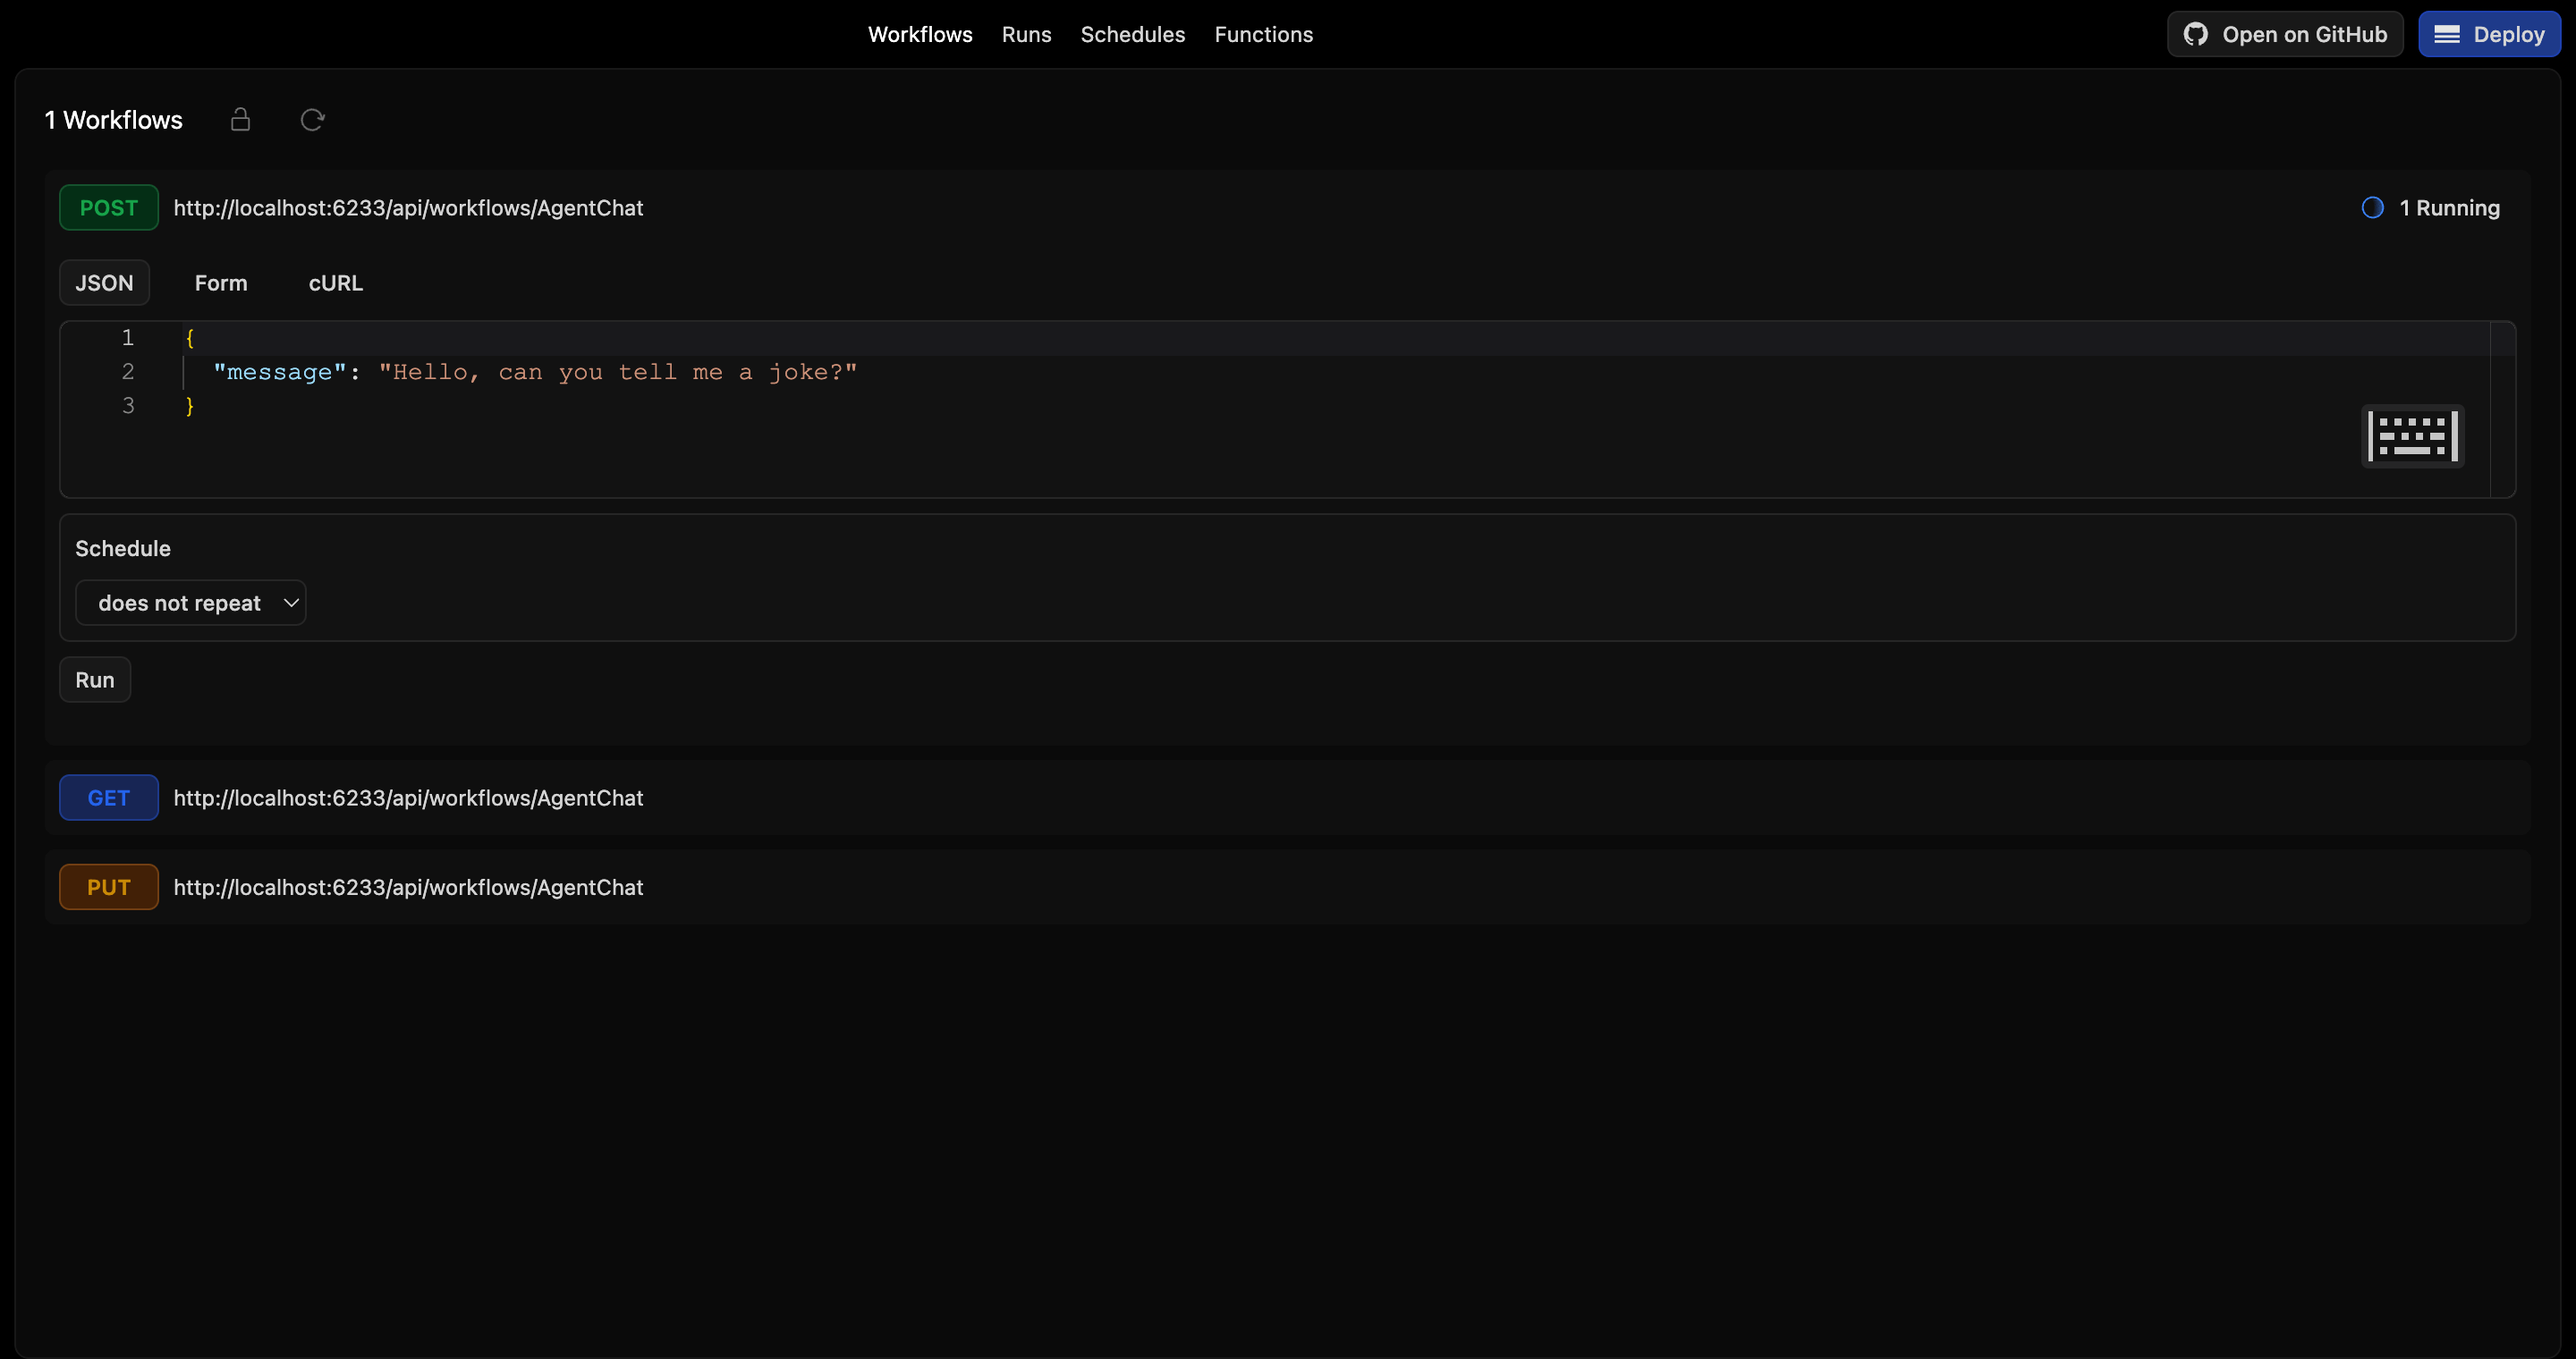
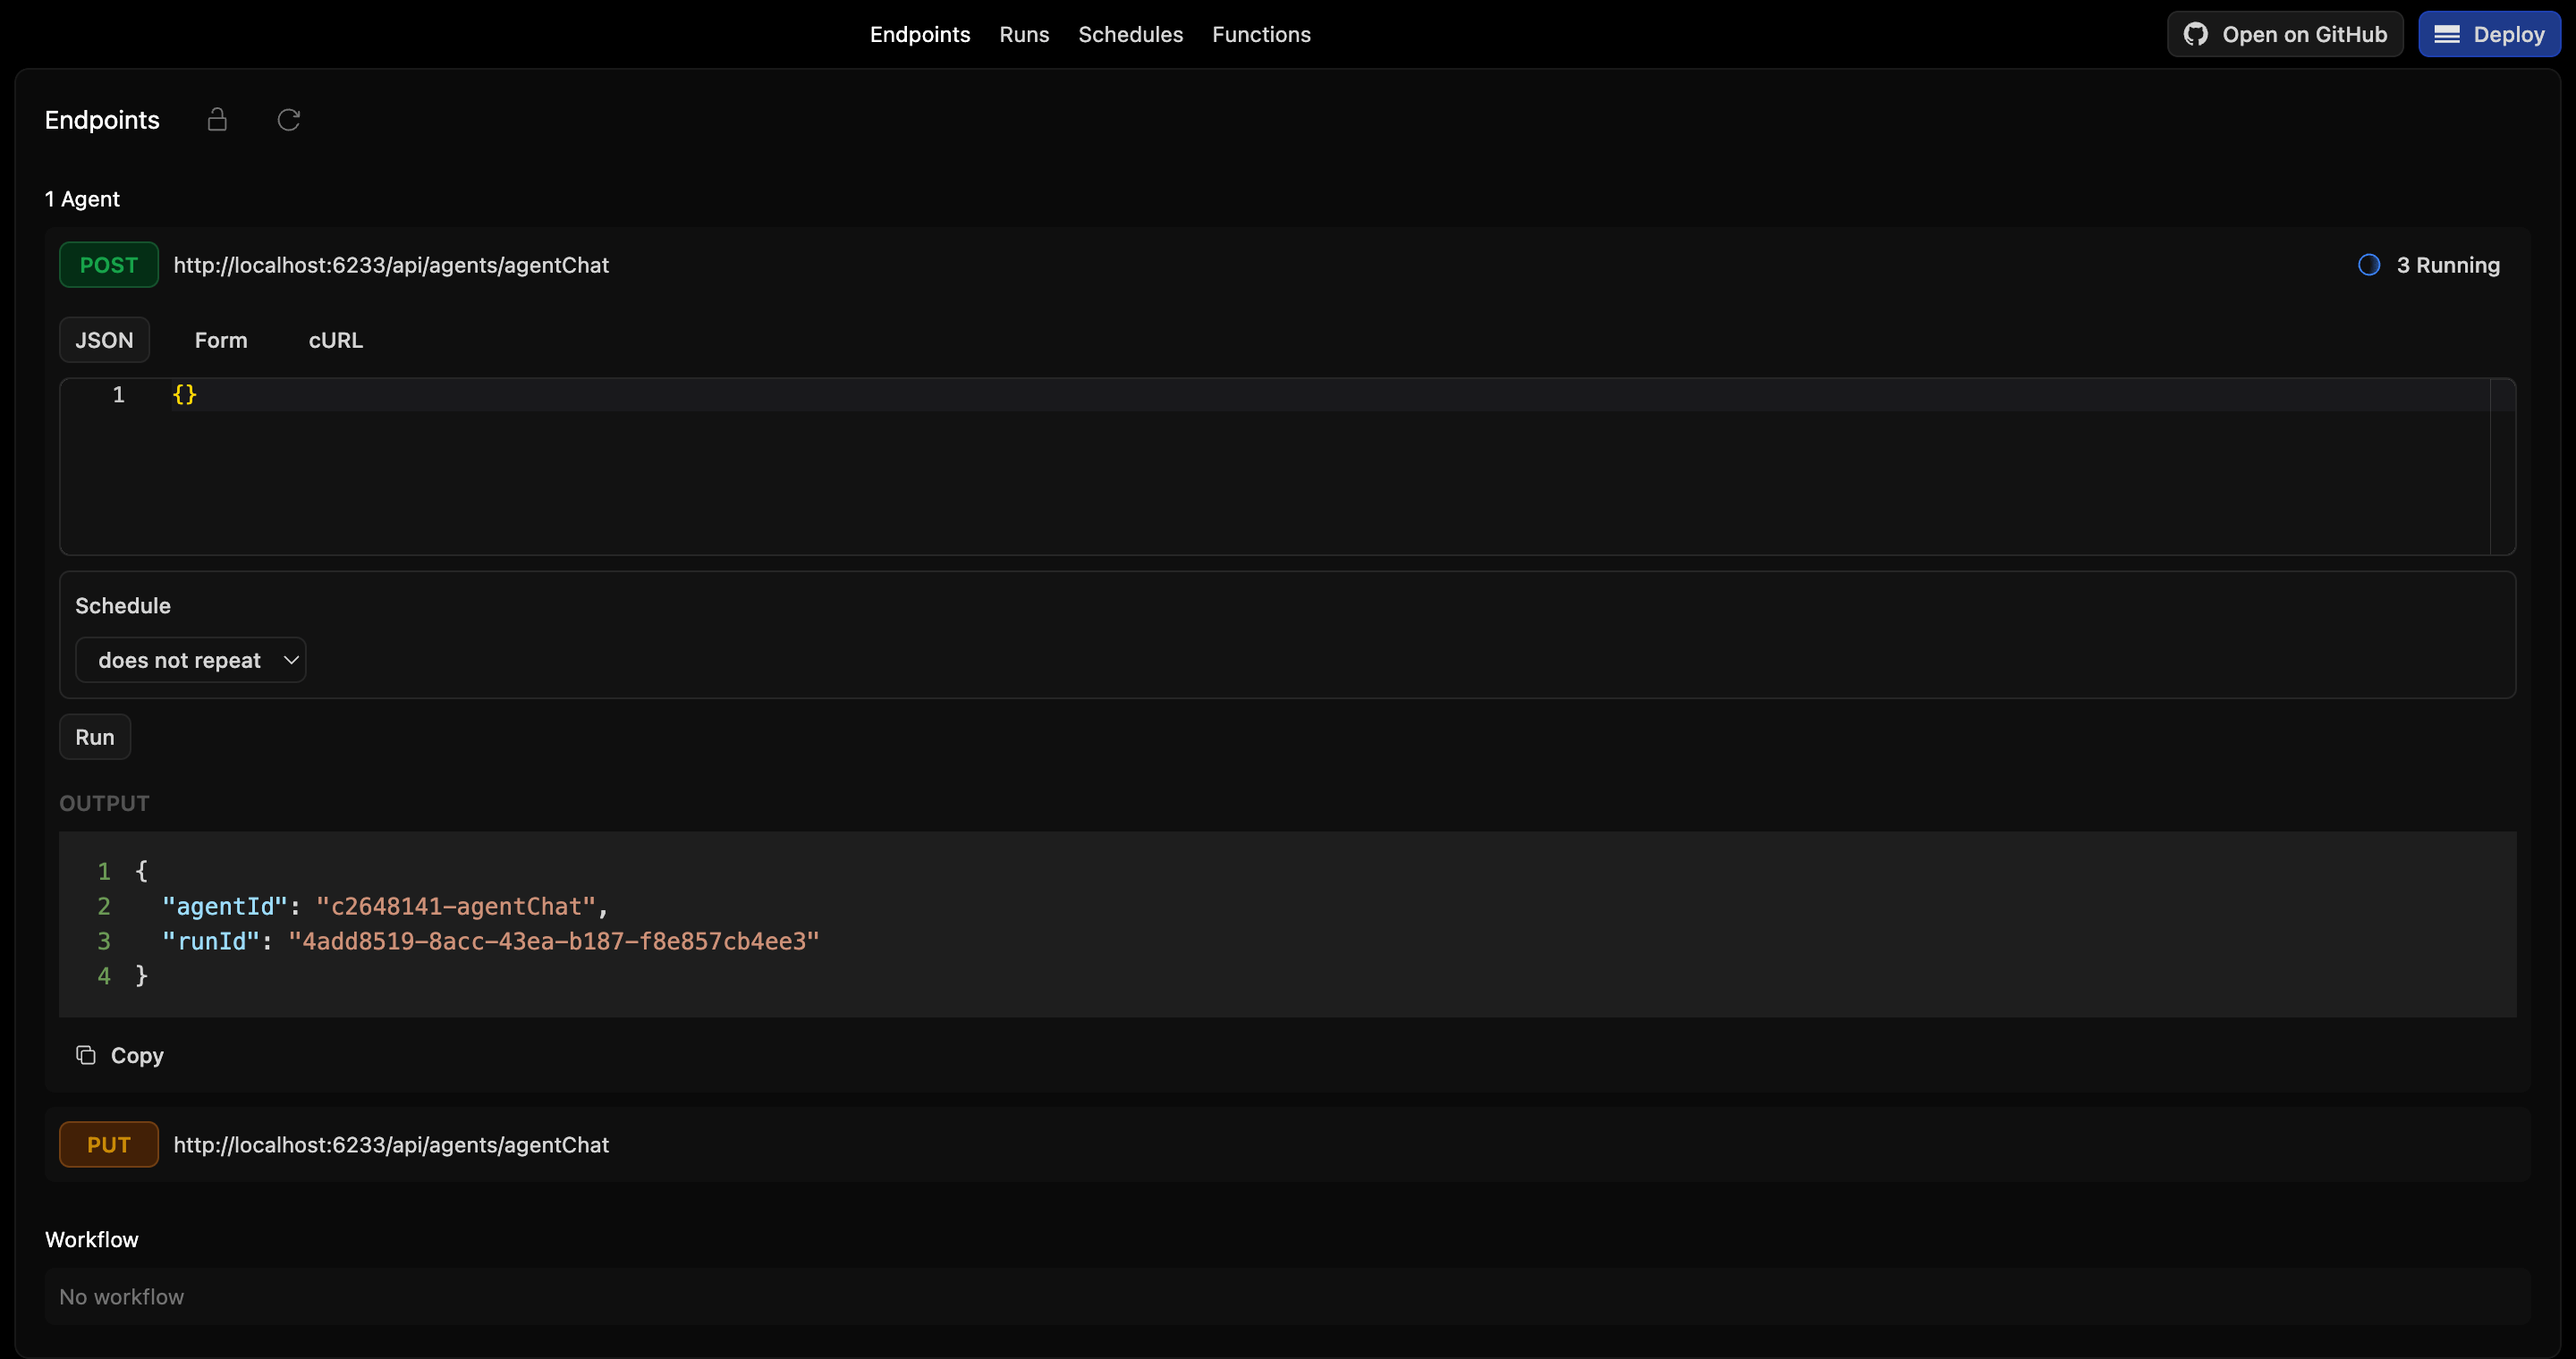
client and screenshots

diff --git a/agent_chat/eventAgent.ts b/agent_chat/eventAgent.ts
@@ -1,41 +1,41 @@
 import { client } from "./src/client";
 
 export type EventInput = {
-  workflowId: string;
+  agentId: string;
   runId: string;
 };
 
-async function eventWorkflow(input: EventInput) {
+async function eventAgent(input: EventInput) {
   try {
-    await client.sendWorkflowEvent({
+    await client.sendAgentEvent({
       event: {
         name: "message",
         input: { content: "Tell me a joke" },
       },
-      workflow: {
-        workflowId: input.workflowId,
+      agent: {
+        agentId: input.agentId,
         runId: input.runId,
       },
     });
 
-    await client.sendWorkflowEvent({
+    await client.sendAgentEvent({
       event: {
         name: "end",
       },
-      workflow: {
-        workflowId: input.workflowId,
+      agent: {
+        agentId: input.agentId,
         runId: input.runId,
       },
     });
 
     process.exit(0); // Exit the process successfully
   } catch (error) {
-    console.error("Error sending event to workflow:", error);
+    console.error("Error sending event to agent:", error);
     process.exit(1); // Exit the process with an error code
   }
 }
 
-eventWorkflow({
-  workflowId: "your-workflow-id",
+eventAgent({
+  agentId: "your-agent-id",
   runId: "your-run-id",
 });

diff --git a/agent_chat/scheduleAgent.ts b/agent_chat/scheduleAgent.ts
@@ -1,0 +1,29 @@
+import { client } from "./src/client";
+
+export type InputSchedule = {
+  name: string;
+};
+
+async function scheduleAgent(input: InputSchedule) {
+  try {
+    const agentId = `${Date.now()}-AgentChat`;
+    const runId = await client.scheduleAgent({
+      agentName: "agentChat",
+      agentId,
+      input,
+    });
+
+    const result = await client.getAgentResult({ agentId, runId });
+
+    console.log("Agent result:", result);
+
+    process.exit(0); // Exit the process successfully
+  } catch (error) {
+    console.error("Error scheduling agent:", error);
+    process.exit(1); // Exit the process with an error code
+  }
+}
+
+scheduleAgent({
+  name: "test",
+});

diff --git a/agent_chat/readme.md b/agent_chat/readme.md
@@ -1,6 +1,6 @@
 # Restack Agent Chat
 
-A sample repository with a an agent chat workflow.
+A sample repository with a an agent chat.
 
 ## Requirements
 
@@ -22,31 +22,31 @@ npm run dev
 ```
 
 This will start a Node.js app with Restack Services.
-Your code will be running and syncing with Restack to execute workflows or functions.
+Your code will be running and syncing with Restack to execute agents.
 
-## Run workflows
+## Run agents
 
 ### from UI
 
-You can run workflows from the UI by clicking the "Run" button.
+You can run agents from the UI by clicking the "Run" button.
 
-![Run workflows from UI](./chat_post.png)
+![Run agents from UI](./chat_post.png)
 
 ### from API
 
-You can run workflows from the API by using the generated endpoint:
+You can run agents from the API by using the generated endpoint:
 
-`POST http://localhost:6233/api/workflows/agentChat`
+`POST http://localhost:6233/api/agents/agentChat`
 
 ### from any client
 
-You can run workflows with any client connected to Restack, for example:
+You can run agents with any client connected to Restack, for example:
 
 ```bash
-npm schedule-workflow
+npm schedule-agent
 ```
 
-executes `scheduleWorkflow.ts` which will connect to Restack and execute the `agentChat` workflow.
+executes `scheduleAgent.ts` which will connect to Restack and execute the `agentChat` agent.
 
 ## Send events to the Agent
 
@@ -64,7 +64,7 @@ And see the events in the run:
 
 You can send events to the agent by using the following endpoint:
 
-`PUT http://localhost:6233/api/workflows/AgentWorkflow/:workflowId/:runId`
+`PUT http://localhost:6233/api/agents/AgentChat/:agentId/:runId`
 
 with the payload:
 
@@ -89,12 +89,12 @@ to end the conversation with the agent.
 
 ### from any client
 
-You can send event to the agent workflows with any client connected to Restack, for example:
+You can send event to the agent with any client connected to Restack, for example:
 
-Modify workflow_id and run_id in event_workflow.py and then run:
+Modify agentId and runId in eventAgent.ts and then run:
 
 ```bash
-pnpm event-workflow
+pnpm event-agent
 ```
 
 It will connect to Restack and send 2 events to the agent, one to generate another agent and another one to end the conversation.
